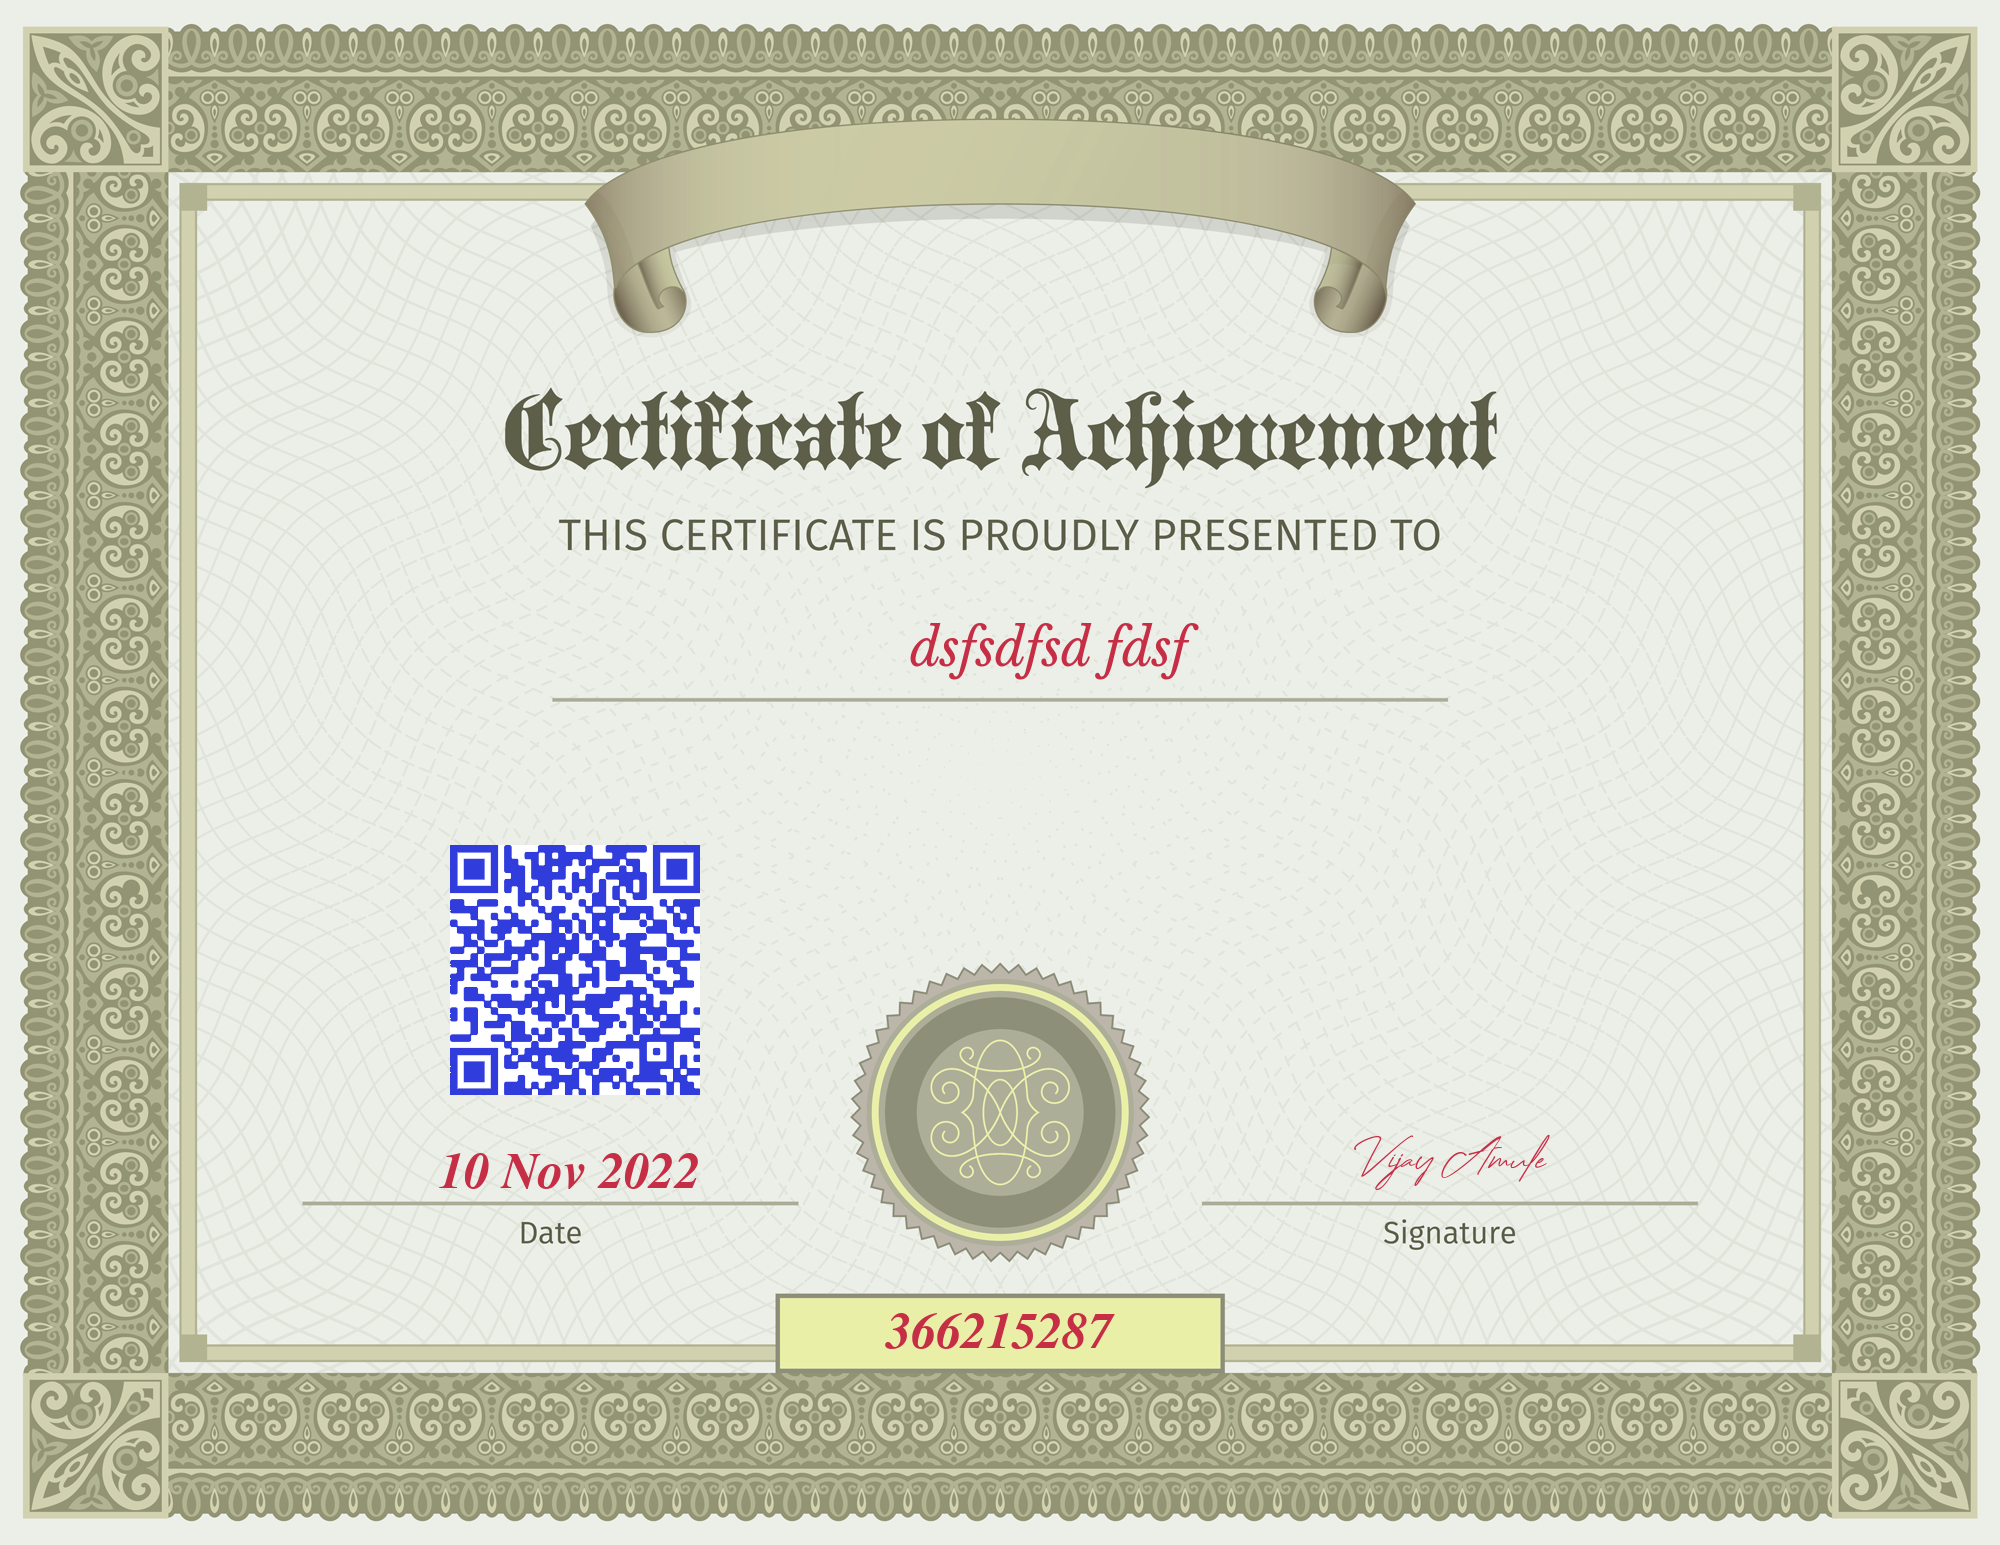
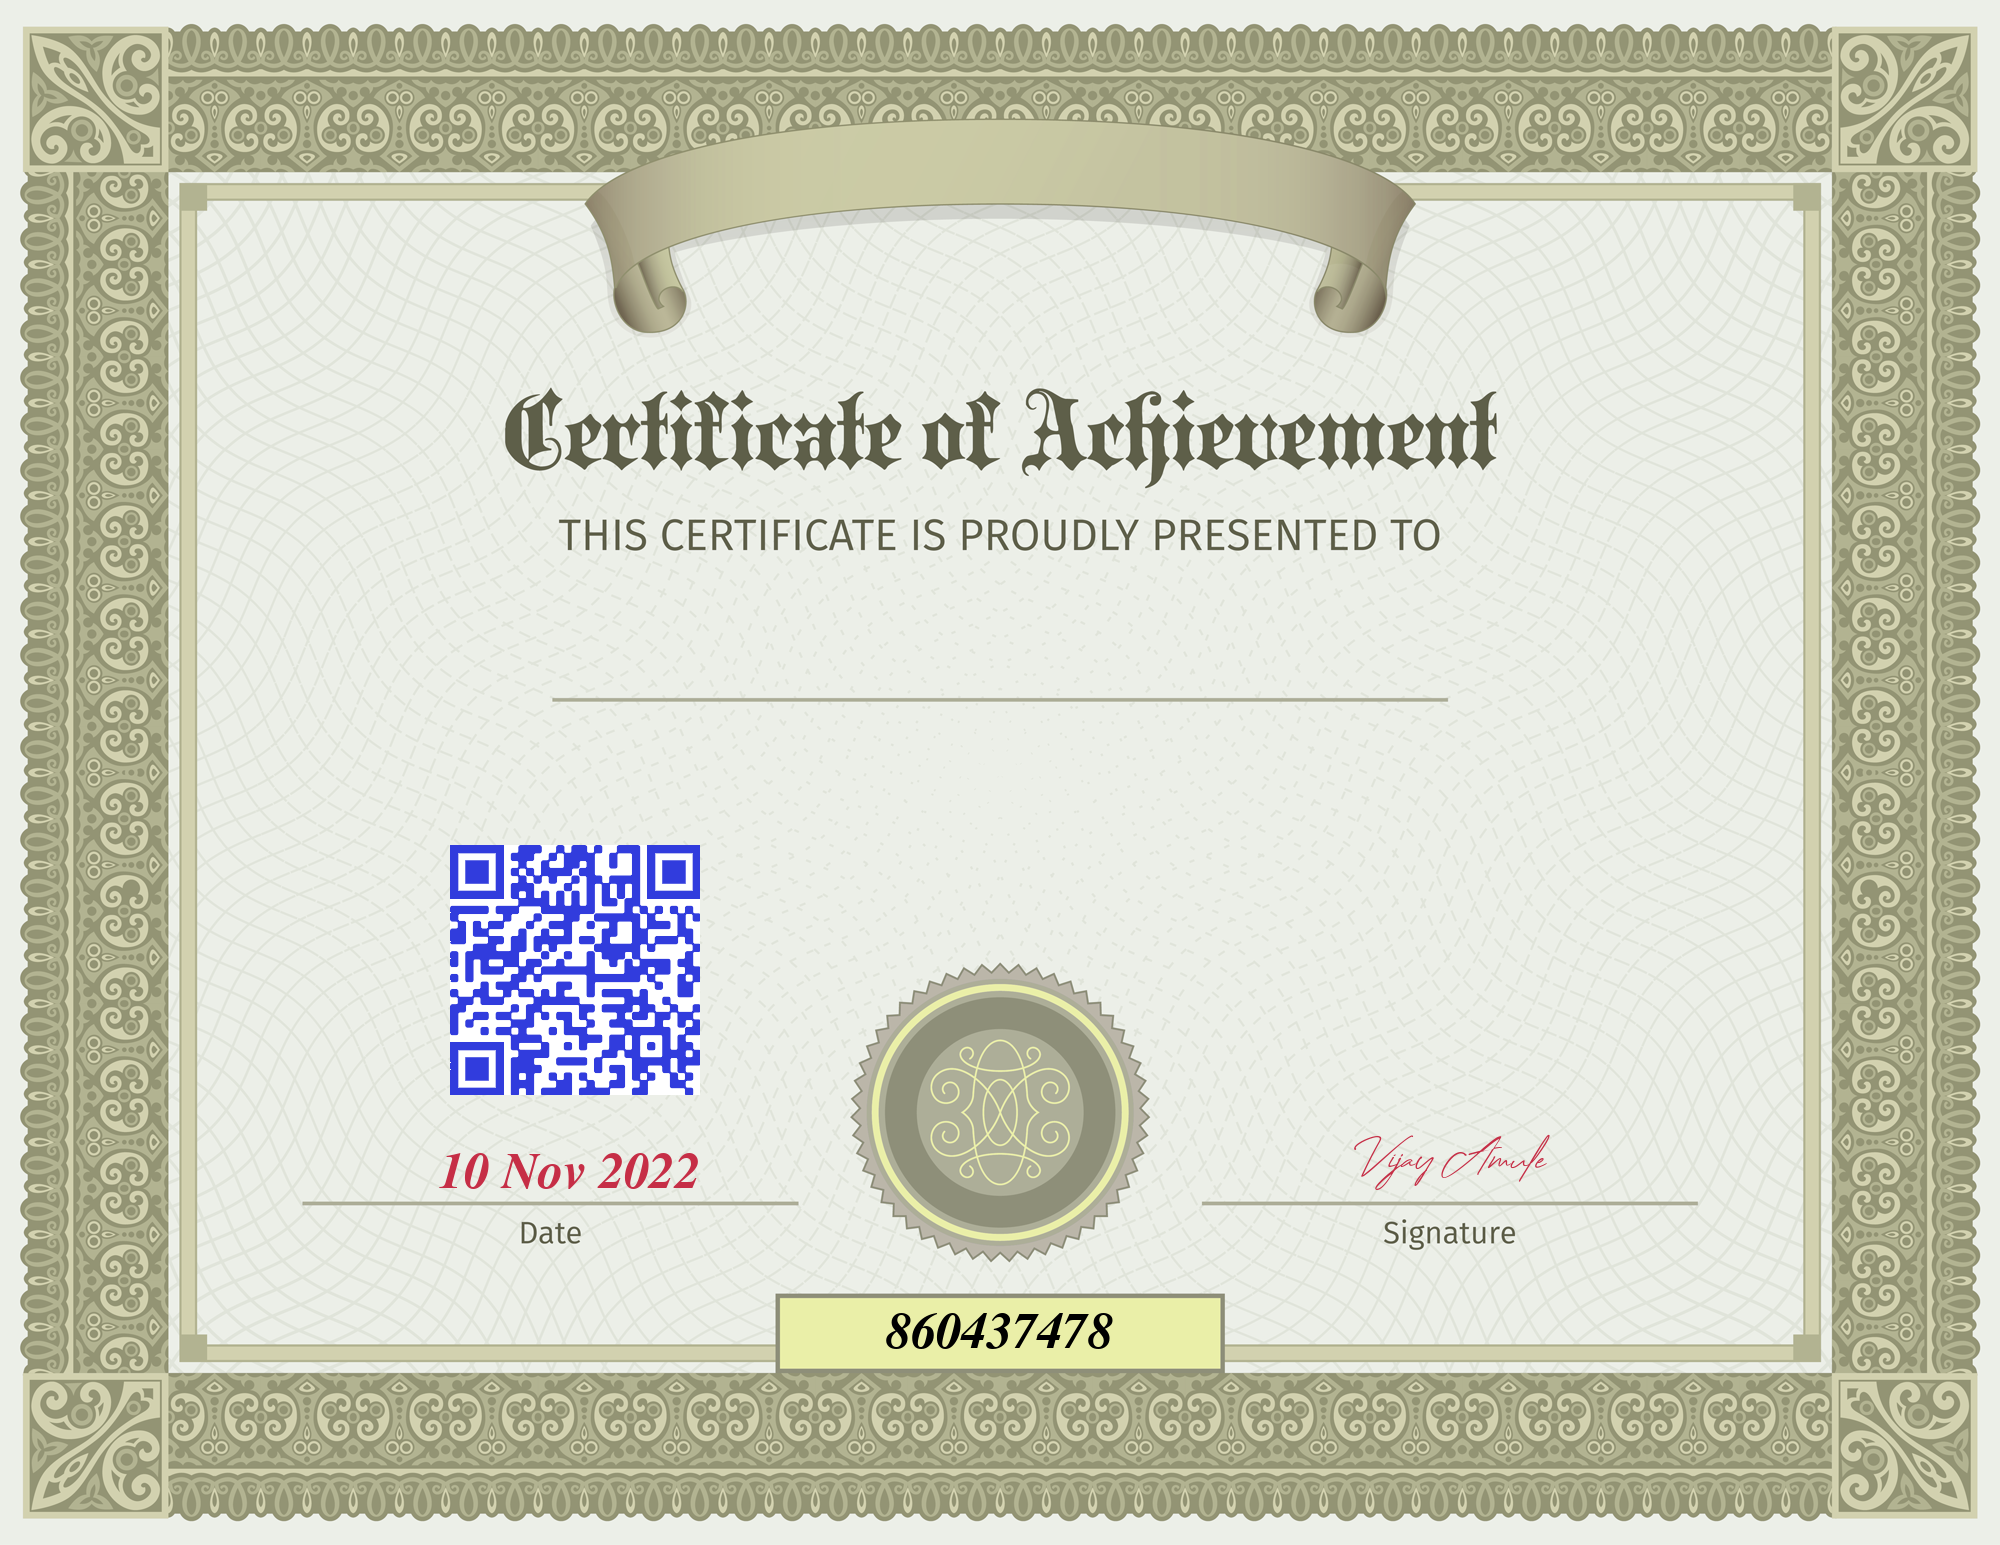
final

Changed region(s): [[0.217, 0.5282, 0.372, 0.7146], [0.465, 0.4039, 0.589, 0.435], [0.434, 0.8388, 0.558, 0.8699]]

diff --git a/resources/views/welcome.blade.php b/resources/views/welcome.blade.php
@@ -19,8 +19,8 @@
             <form action="{{route('certificate')}}" method="post">
                 @csrf
                 <div class="form-group">
-                  <label for=""></label>
-                  <input type="text" name="name" id="" class="form-control" placeholder="">
+                  <label for="">Enter Name</label>
+                  <input type="text" name="name" id="" class="form-control" placeholder="Enter Student Name">
                 </div>
                 <div class="btn">
                     <button type="submit" class="btn btn-success">Generate</button>

diff --git a/app/Http/Controllers/CertificateController.php b/app/Http/Controllers/CertificateController.php
@@ -46,7 +46,7 @@ class CertificateController extends Controller
         $img->text($cer_no, 1000, 1350, function ($font) {
             $font->file(public_path('image/font.ttf'));
             $font->size(50);
-            $font->color('#c62e46');
+            $font->color('#000000');
             $font->align('center');
             $font->valign('bottom');
             $font->angle(0);

diff --git a/resources/views/cerificate.blade.php b/resources/views/cerificate.blade.php
@@ -10,7 +10,7 @@
 </head>
 <body>
 <div class="container mt-5 mb-5">
-    <img src="{{asset('image/certificate1.png')}}" alt="" width="800" height="600">
+    <img src="{{asset('image/certificate1.png')}}" class="img-fluid" alt="" width="800" height="600">
     <br>
     <a href="{{asset('image/certificate1.png')}}" download="certificate.png" class="btn btn-primary">Download</a>
 </div>
